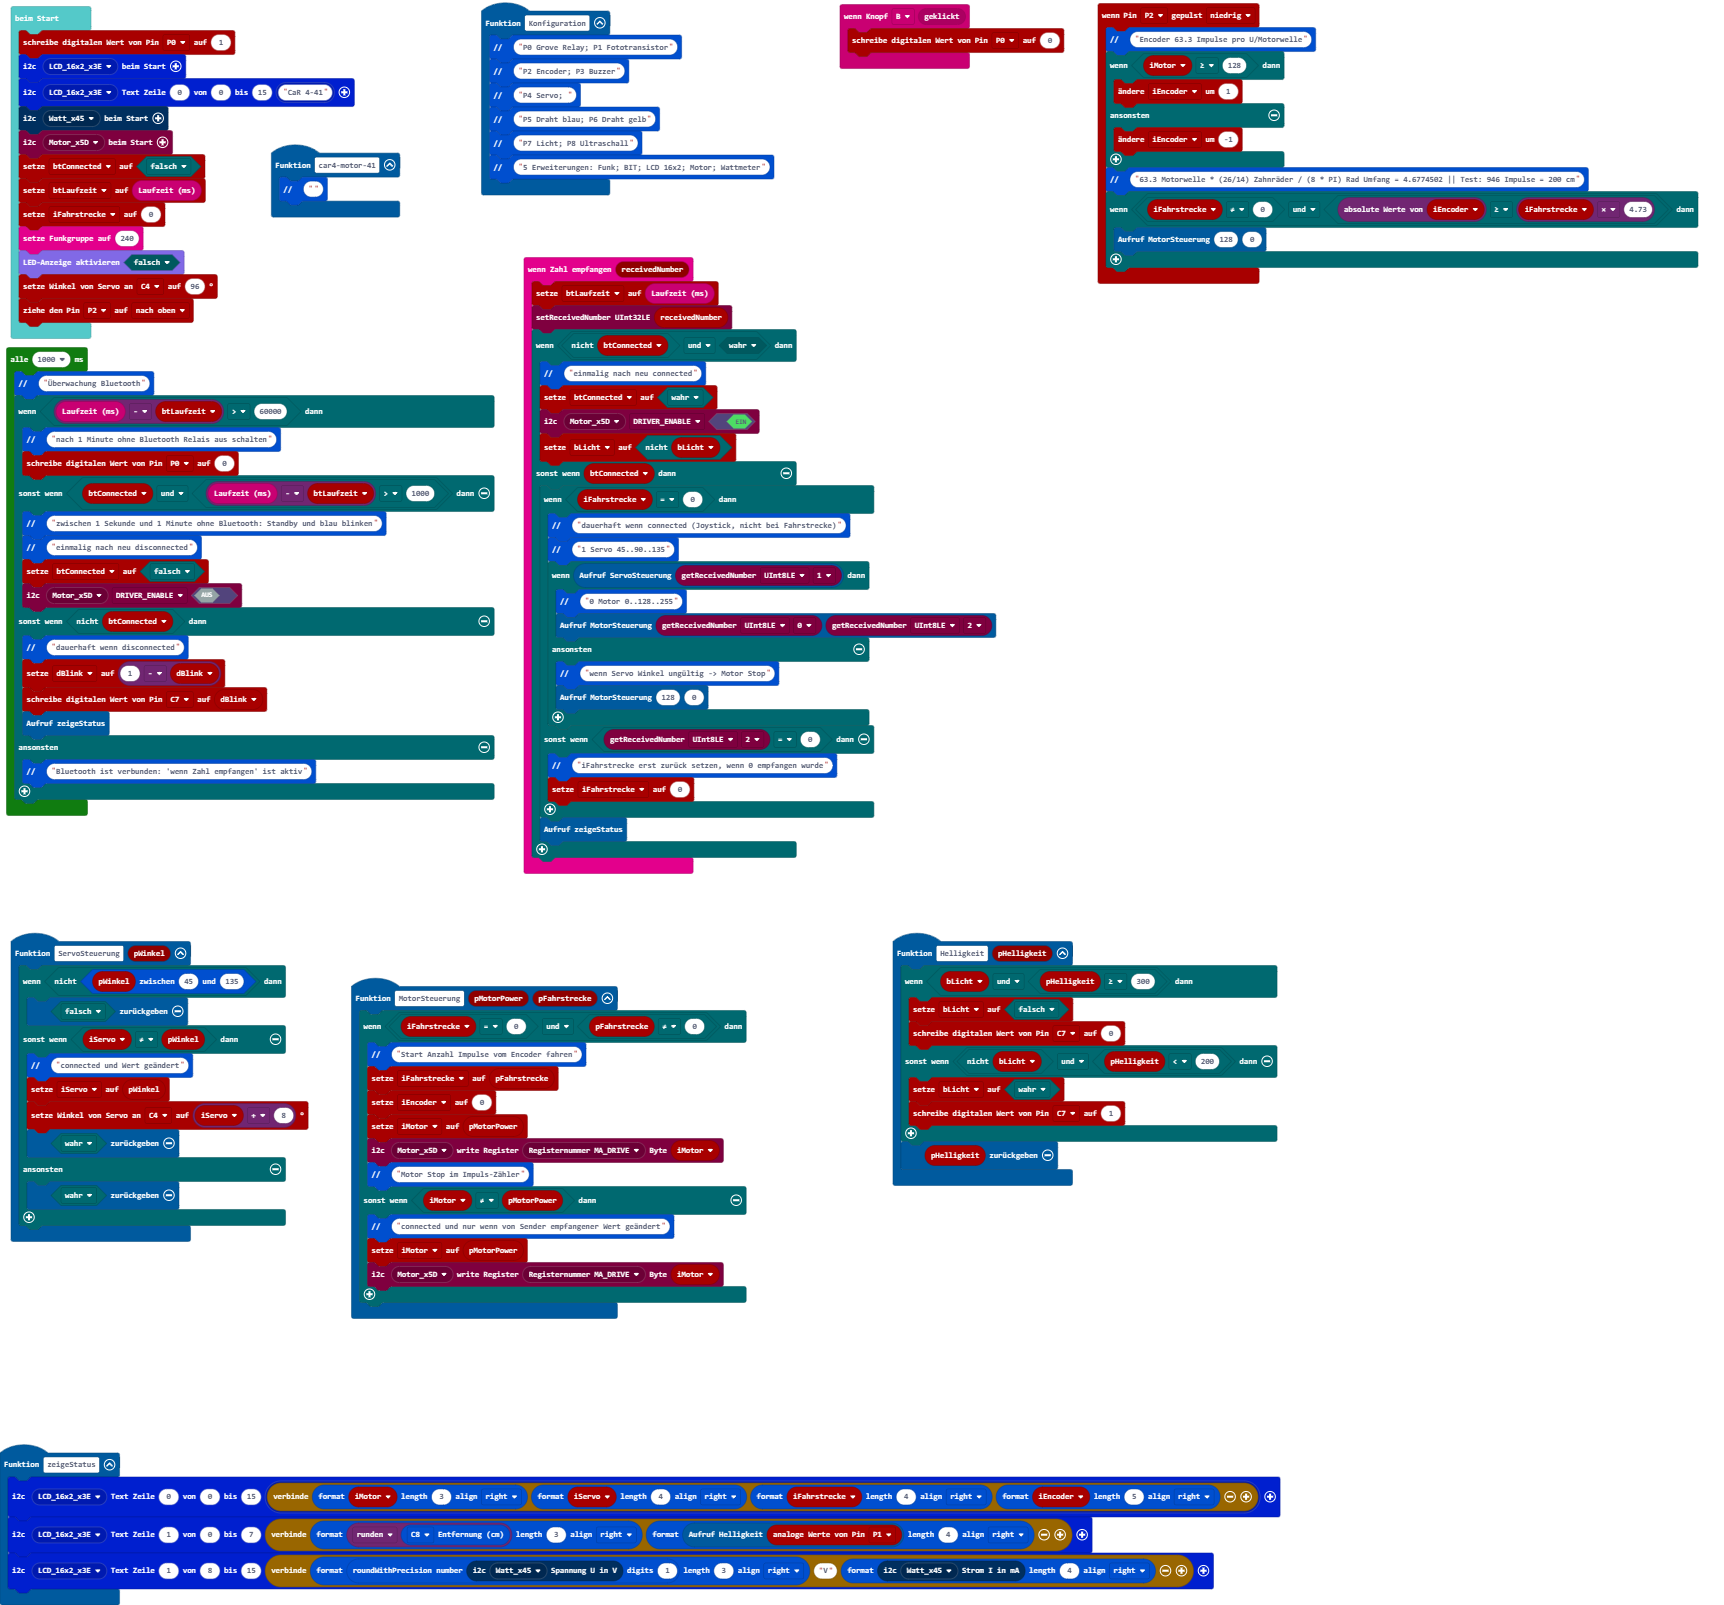
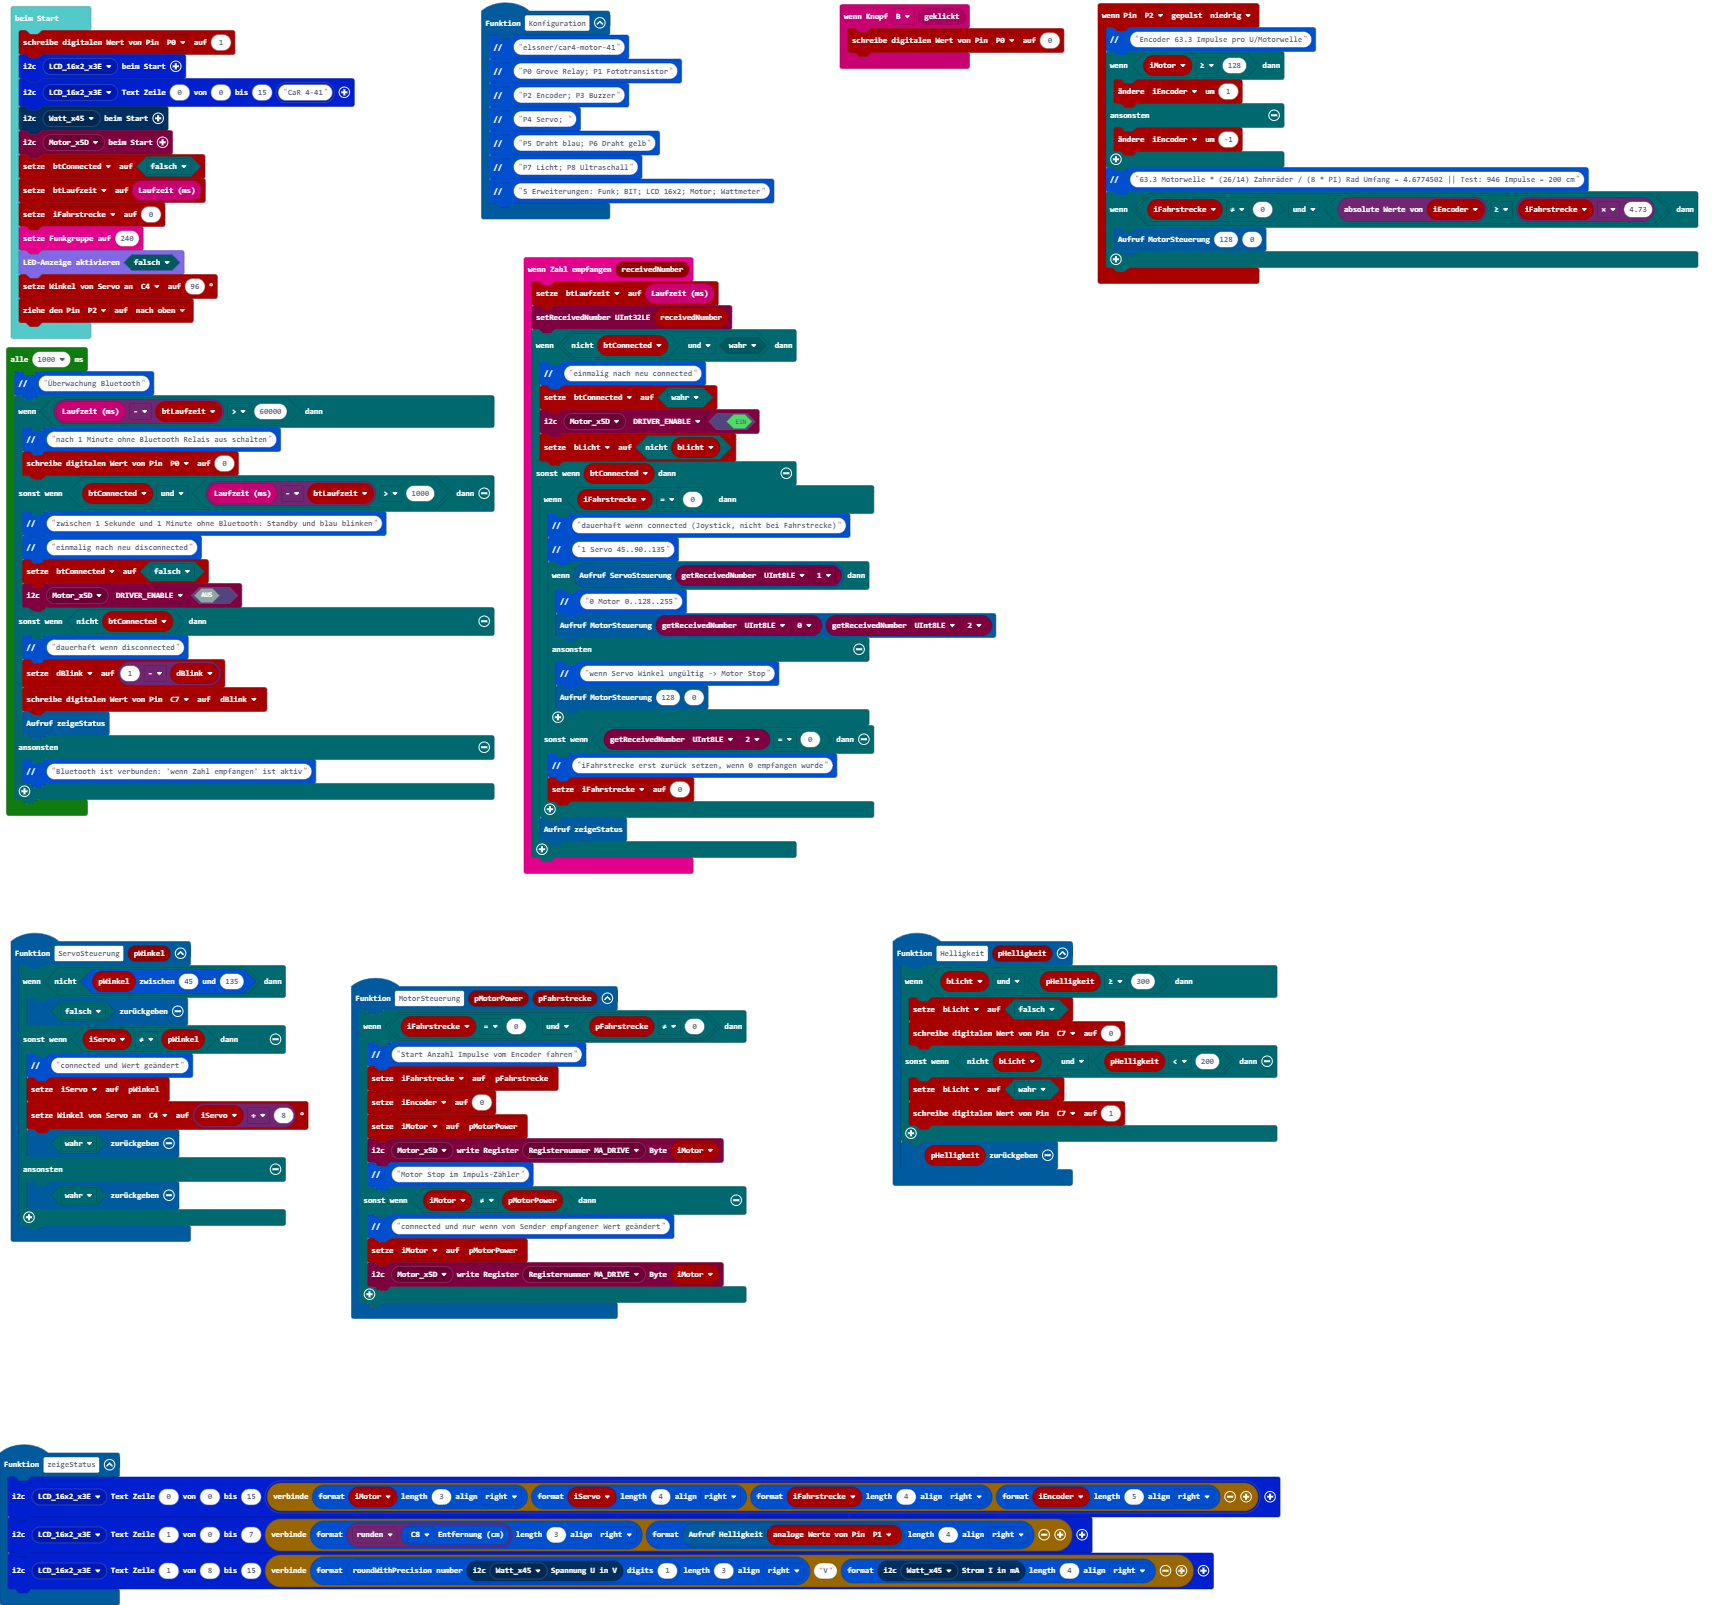
Aktualisiere main.blocks, main.ts

Changed region(s): [[0.2767, 0.0, 0.4611, 0.1558], [0.1537, 0.0935, 0.2459, 0.1558]]

diff --git a/main.ts b/main.ts
@@ -38,9 +38,6 @@ function MotorSteuerung (pMotorPower: number, pFahrstrecke: number) {
         qwiicmotor.writeRegister(qwiicmotor.qwiicmotor_eADDR(qwiicmotor.eADDR.Motor_x5D), qwiicmotor.qwiicmotor_eRegister(qwiicmotor.eRegister.MA_DRIVE), iMotor)
     }
 }
-function car4motor41 () {
-    bit.comment("")
-}
 function zeigeStatus () {
     lcd16x2rgb.writeText(lcd16x2rgb.lcd16x2_eADDR(lcd16x2rgb.eADDR_LCD.LCD_16x2_x3E), 0, 0, 15, lcd16x2rgb.lcd16x2_text("" + bit.formatText(iMotor, 3, bit.eAlign.right) + bit.formatText(iServo, 4, bit.eAlign.right) + bit.formatText(iFahrstrecke, 4, bit.eAlign.right) + bit.formatText(iEncoder, 5, bit.eAlign.right)))
     lcd16x2rgb.writeText(lcd16x2rgb.lcd16x2_eADDR(lcd16x2rgb.eADDR_LCD.LCD_16x2_x3E), 1, 0, 7, "" + bit.formatText(Math.round(bit.measureInCentimeters(DigitalPin.C8)), 3, bit.eAlign.right) + bit.formatText(Helligkeit(pins.analogReadPin(AnalogPin.P1)), 4, bit.eAlign.right))
@@ -72,6 +69,7 @@ function Helligkeit (pHelligkeit: number) {
     return pHelligkeit
 }
 function Konfiguration () {
+    bit.comment("elssner/car4-motor-41")
     bit.comment("P0 Grove Relay; P1 Fototransistor")
     bit.comment("P2 Encoder; P3 Buzzer")
     bit.comment("P4 Servo; ")
